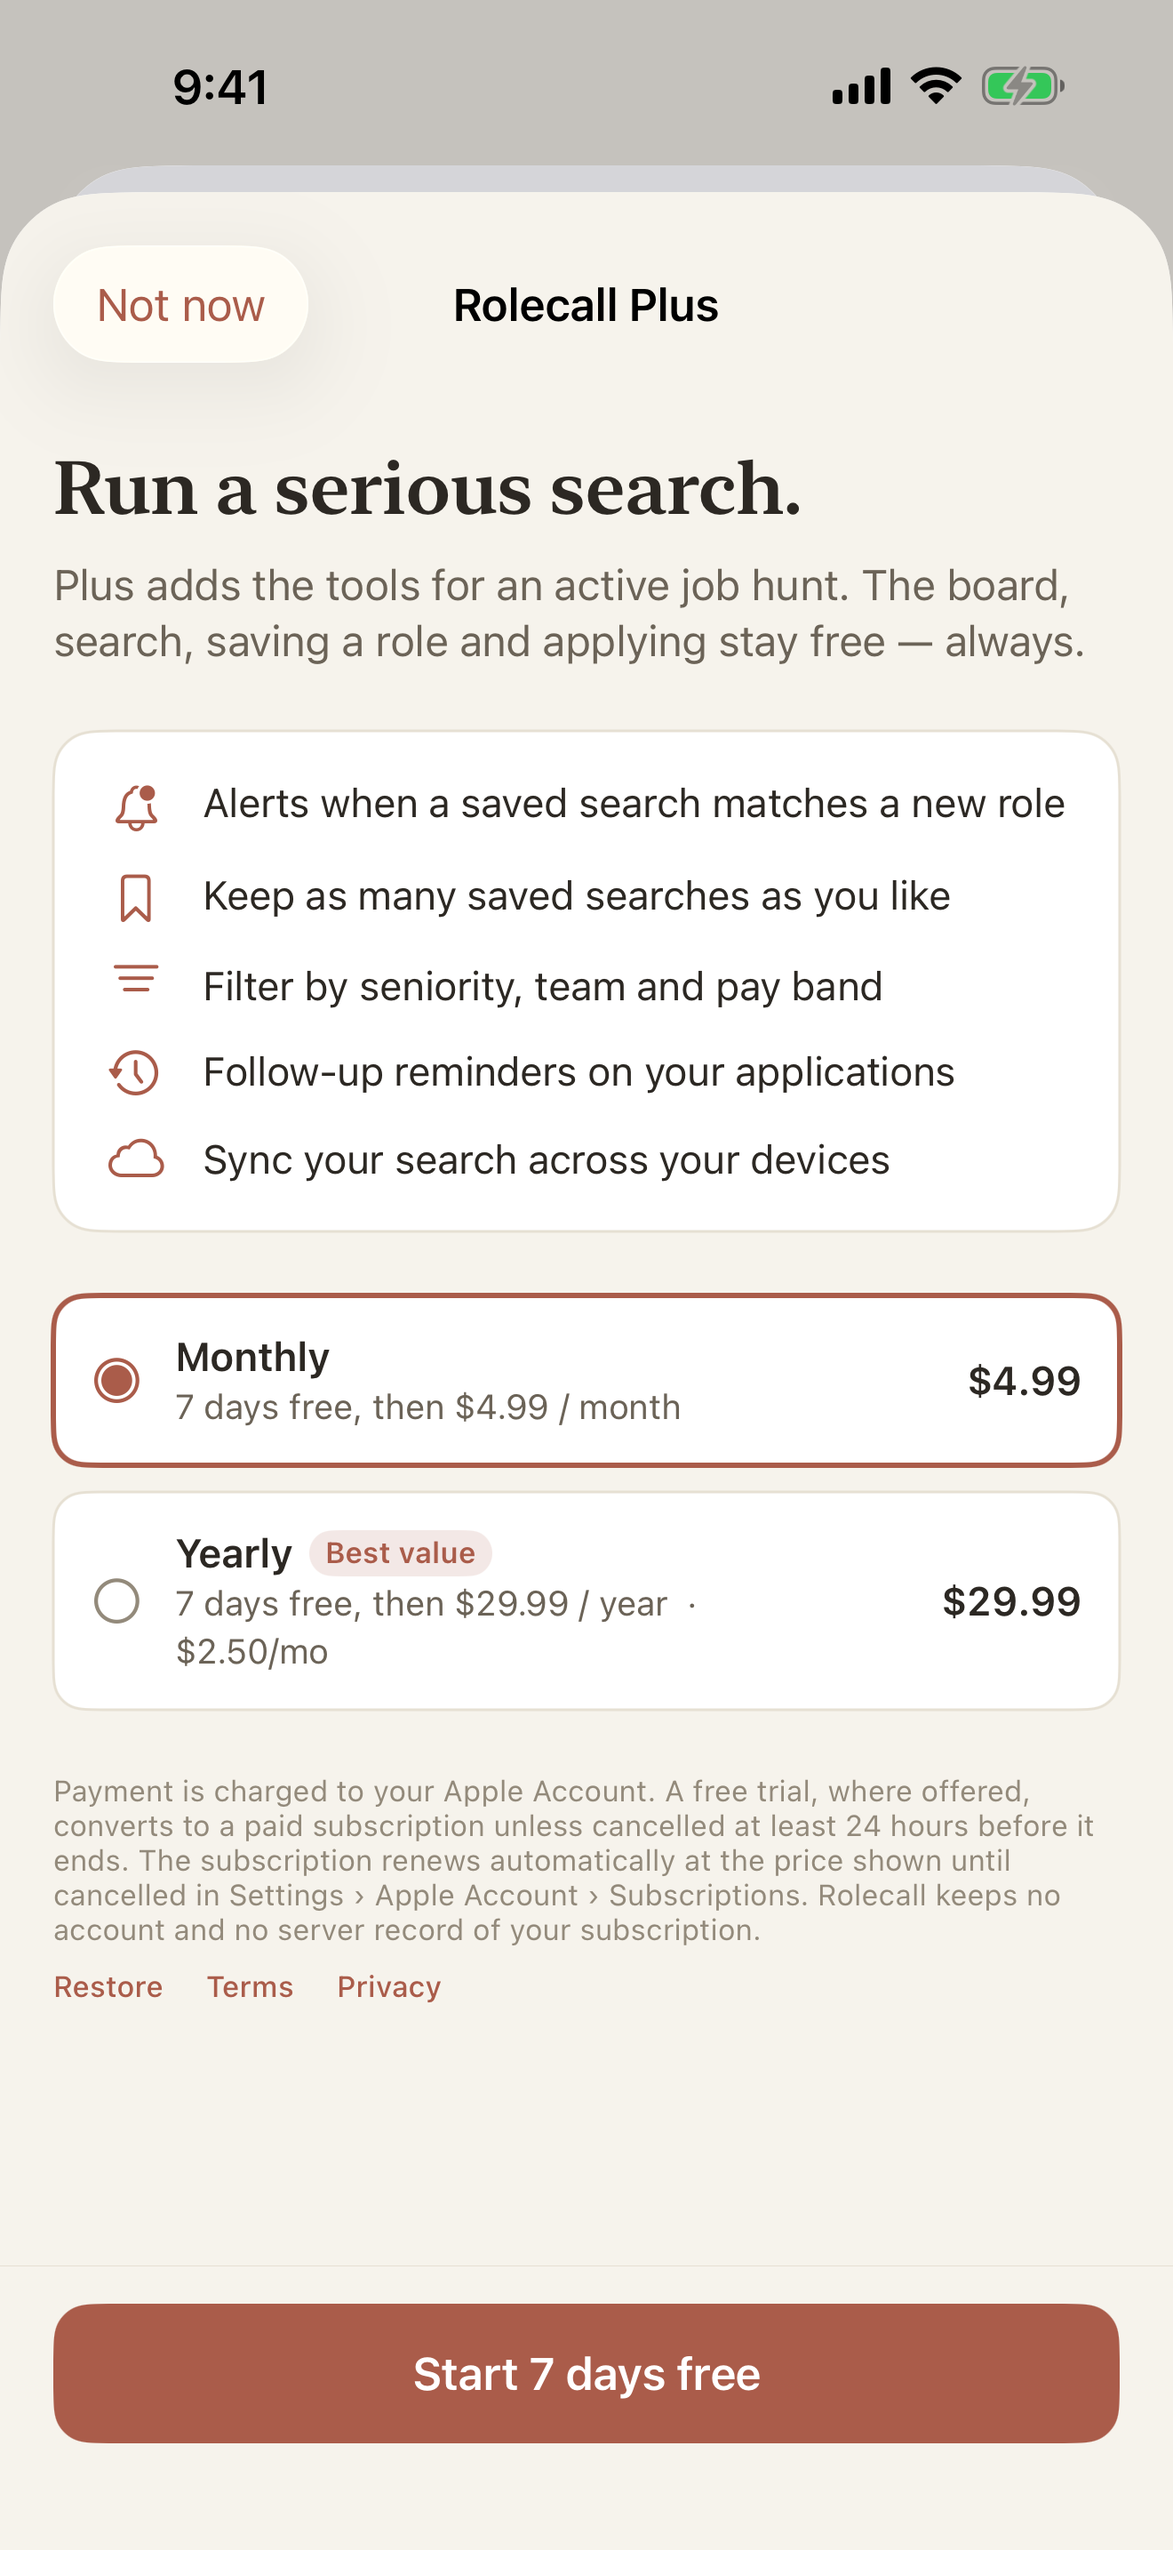
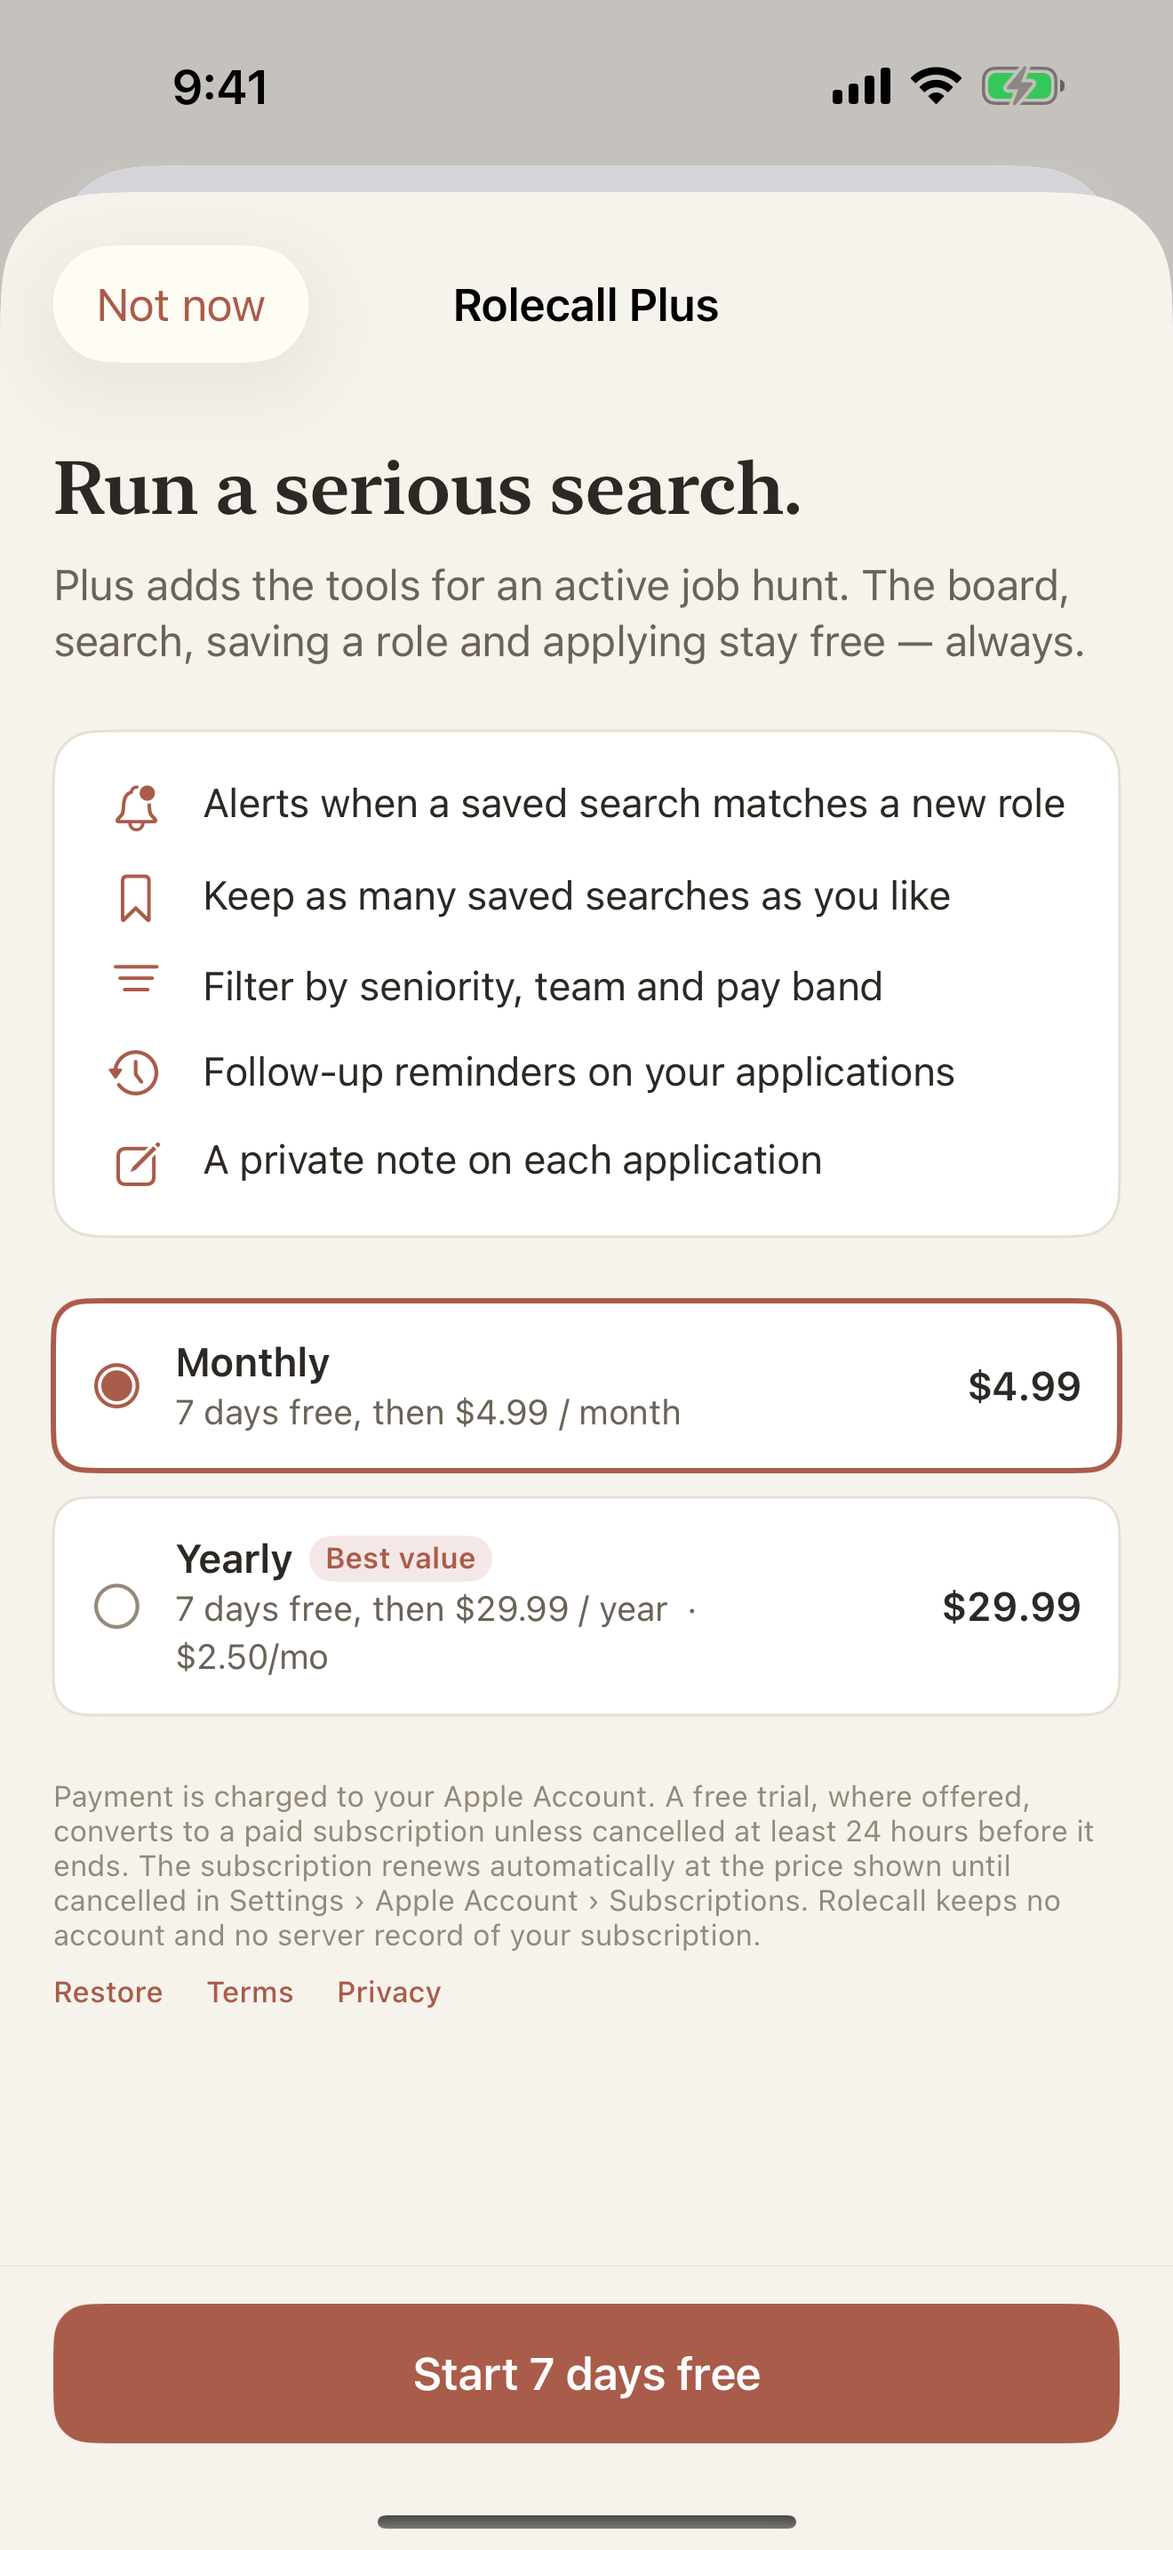
Pull iCloud sync from v1; add real Privacy Policy and Terms pages
iCloud sync was advertised on the paywall and carried a PlusFeature case, but
nothing implemented it — a 2.3.1 / 3.1 risk. Removed it from the paywall
benefit list, the PlusFeature enum, the StoreKit product descriptions, and the
Settings subtitle. The dead PlusFeature.export case (export is free) is gone
too; the 5th benefit is now "private notes", which is genuinely Plus-gated.
iCloud sync returns as a v1.1 feature with a CloudKit container and device
testing.

Auto-renewing subscriptions need functional Terms and Privacy links, which
previously both pointed at the site homepage. Adds:
  - web: /privacy/ and /terms/ pages (build.py render_privacy / render_terms),
    linked from the footer and the sitemap. Privacy reflects the actual
    posture — no account, no analytics, on-device only. Terms cover the
    listings, acceptable use, and the Rolecall Plus auto-renew disclosure with
    a link to Apple's standard EULA.
  - app: PaywallView Terms/Privacy buttons and two new Settings > Privacy links
    now point at rolecalljobs.com/terms/ and /privacy/.

New: SUPPORT_CONTACT = support@rolecalljobs.com (needs a Cloudflare email route).
Release build clean, 0 debug strings in the binary, 53 unit tests pass, paywall
review screenshot refreshed.

Claude-Session: https://claude.ai/code/session_01U8Udz79qhQtr89zPEzs5od

diff --git a/ios/Rolecall/Store/ProGate.swift b/ios/Rolecall/Store/ProGate.swift
@@ -28,8 +28,7 @@ enum PlusFeature: String, CaseIterable, Identifiable {
     case savedSearches
     case advancedFilters
     case reminders
-    case iCloudSync
-    case export
+    case notes
 
     var id: String { rawValue }
 
@@ -40,8 +39,7 @@ enum PlusFeature: String, CaseIterable, Identifiable {
         case .savedSearches:   return "Unlimited saved searches"
         case .advancedFilters: return "Advanced filters"
         case .reminders:       return "Follow-up reminders"
-        case .iCloudSync:      return "iCloud sync"
-        case .export:          return "Export"
+        case .notes:           return "Private notes"
         }
     }
 
@@ -56,10 +54,8 @@ enum PlusFeature: String, CaseIterable, Identifiable {
             return "Filter by seniority, team, and compensation band, not just role family."
         case .reminders:
             return "Set a nudge to follow up on an application at the right time."
-        case .iCloudSync:
-            return "Carry your saved roles and applications across your iPhone and iPad."
-        case .export:
-            return "Save your applications as a file whenever you want a copy."
+        case .notes:
+            return "Keep a private note on each application — where it stands, who you spoke to."
         }
     }
 
@@ -69,8 +65,7 @@ enum PlusFeature: String, CaseIterable, Identifiable {
         case .savedSearches:   return "bookmark"
         case .advancedFilters: return "line.3.horizontal.decrease"
         case .reminders:       return "clock.arrow.circlepath"
-        case .iCloudSync:      return "icloud"
-        case .export:          return "square.and.arrow.up"
+        case .notes:           return "square.and.pencil"
         }
     }
 }

diff --git a/ios/Rolecall/Views/SettingsView.swift b/ios/Rolecall/Views/SettingsView.swift
@@ -60,7 +60,7 @@ struct SettingsView: View {
                                 Image(systemName: "sparkles").foregroundStyle(Theme.Palette.accent)
                                 VStack(alignment: .leading, spacing: 2) {
                                     Text("Rolecall Plus").foregroundStyle(Theme.Palette.ink)
-                                    Text("Alerts, reminders, advanced filters, sync")
+                                    Text("Alerts, reminders, advanced filters, notes")
                                         .font(.footnote).foregroundStyle(.secondary)
                                 }
                                 Spacer()
@@ -134,6 +134,8 @@ struct SettingsView: View {
                     Text("Rolecall keeps everything on this device. No account, no analytics, no trackers. Nothing you do here is sent anywhere.")
                         .font(.footnote)
                         .foregroundStyle(.secondary)
+                    Link("Privacy Policy", destination: URL(string: "https://rolecalljobs.com/privacy/")!)
+                    Link("Terms of Use", destination: URL(string: "https://rolecalljobs.com/terms/")!)
                 }
 
                 Section {

diff --git a/ios/Rolecall/Store/PaywallView.swift b/ios/Rolecall/Store/PaywallView.swift
@@ -22,7 +22,7 @@ struct PaywallView: View {
         ("bookmark", "Keep as many saved searches as you like"),
         ("line.3.horizontal.decrease", "Filter by seniority, team and pay band"),
         ("clock.arrow.circlepath", "Follow-up reminders on your applications"),
-        ("icloud", "Sync your search across your devices"),
+        ("square.and.pencil", "A private note on each application"),
     ]
 
     var body: some View {
@@ -185,8 +185,8 @@ struct PaywallView: View {
                 .fixedSize(horizontal: false, vertical: true)
             HStack(spacing: 16) {
                 Button("Restore") { Task { await store.restore() } }
-                Button("Terms") { openURL(URL(string: "https://rolecalljobs.com/")!) }
-                Button("Privacy") { openURL(URL(string: "https://rolecalljobs.com/")!) }
+                Button("Terms") { openURL(URL(string: "https://rolecalljobs.com/terms/")!) }
+                Button("Privacy") { openURL(URL(string: "https://rolecalljobs.com/privacy/")!) }
             }
             .font(.caption2.weight(.medium))
             .foregroundStyle(Theme.Palette.accent)

diff --git a/web/build.py b/web/build.py
@@ -37,6 +37,7 @@ ADSENSE_SLOT = "0000000000"
 # --------------------------------------------------------------------------
 
 SPONSOR_CONTACT = "sponsors@rolecalljobs.com"
+SUPPORT_CONTACT = "support@rolecalljobs.com"
 APP_STORE_URL = "#app-store-link-tbd"  # replace with the real App Store URL at launch
 
 FAMILY_LABEL = {
@@ -326,6 +327,15 @@ footer a{color:var(--muted);text-decoration:underline}
 footer .links{display:flex;gap:18px;justify-content:center;flex-wrap:wrap;margin-bottom:10px}
 footer .fine{max-width:70ch;margin:0 auto 10px;color:var(--faint);font-size:12.5px}
 
+/* legal pages */
+.legal{max-width:68ch;margin:0 auto;padding:8px 0 24px}
+.legal h1.page{text-align:left}
+.legal h2{font-size:18px;text-align:left;margin:28px 0 8px}
+.legal p,.legal li{color:var(--muted);font-size:15px;line-height:1.65}
+.legal ul{padding-left:22px;margin:8px 0}
+.legal a{color:var(--ink);text-decoration:underline}
+.legal .updated{font-size:13px;color:var(--faint);margin:0 0 22px}
+
 @media (max-width:640px){ .count{margin-left:0;width:100%} }
 """
 
@@ -381,6 +391,8 @@ def shell(*, title, description, canonical, body, base_url, is_job=False, landin
   <div class="links">
     <a href="{base}/">Home</a>
     <a href="{base}/board/">Board</a>
+    <a href="{base}/privacy/">Privacy</a>
+    <a href="{base}/terms/">Terms</a>
     <a href="mailto:{sponsor}?subject=Sponsored%20listing%20on%20Rolecall">Sponsor a role</a>
   </div>
   <div class="fine">Company names identify the employers whose public career feeds Rolecall reads.
@@ -789,7 +801,7 @@ def render_job(role, data, base_url, now):
 
 def render_sitemap(data, base_url, now):
     lastmod = iso_date(data.get("generated_utc", now))
-    urls = [base_url + "/", base_url + "/board/"]
+    urls = [base_url + "/", base_url + "/board/", base_url + "/privacy/", base_url + "/terms/"]
     urls += ["{}/jobs/{}.html".format(base_url, r["_slug"]) for r in data.get("roles", [])]
     entries = "\n".join(
         "  <url><loc>{}</loc><lastmod>{}</lastmod></url>".format(esc(u), lastmod) for u in urls
@@ -817,6 +829,156 @@ def render_404(base_url):
         title="Not found — Rolecall",
         description="That page isn't here.",
         canonical=base_url + "/404.html",
+        body=body,
+        base_url=base_url,
+        is_job=False,
+        landing=False,
+    )
+
+
+LEGAL_UPDATED = "September 8, 2026"
+
+
+def render_privacy(base_url):
+    body = """
+<div class="legal">
+  <h1 class="page">Privacy Policy</h1>
+  <p class="updated">Last updated {updated}</p>
+
+  <p>Rolecall is a job board for product-design roles, published by AvaResearch LLC
+  (&ldquo;we&rdquo;). This policy covers the Rolecall iOS app and this website. The short
+  version: we don&rsquo;t have accounts, we don&rsquo;t run analytics or trackers, and we
+  don&rsquo;t sell data &mdash; because we don&rsquo;t collect it.</p>
+
+  <h2>The app</h2>
+  <ul>
+    <li><strong>No account, no sign-in.</strong> The app never asks for your name, email,
+    or any identifier.</li>
+    <li><strong>Everything stays on your device.</strong> The roles you save, the
+    applications you track, your notes, reminders, saved searches, and settings are stored
+    only on your iPhone. We have no server that can see them.</li>
+    <li><strong>No analytics or tracking SDKs.</strong> The app contains no third-party
+    analytics, advertising, or attribution code. Apple&rsquo;s App Privacy label for
+    Rolecall is &ldquo;Data Not Collected.&rdquo;</li>
+    <li><strong>Network use.</strong> The app downloads one file &mdash; the public job
+    board &mdash; from our hosting provider (Cloudflare). That request includes your IP
+    address and a standard user-agent string, which Cloudflare processes to deliver the
+    file and may log transiently for security and abuse prevention. We do not receive or
+    retain it.</li>
+    <li><strong>Notifications.</strong> If you turn on a digest or a follow-up reminder,
+    the app schedules a local notification on your device. Nothing is sent to us or to a
+    push server.</li>
+    <li><strong>Rolecall Plus.</strong> If you subscribe, the purchase is handled entirely
+    by Apple. We never see your payment details, and there is no account tied to the
+    subscription &mdash; your device checks entitlement directly with the App Store.</li>
+  </ul>
+
+  <h2>This website</h2>
+  <ul>
+    <li>The landing page and the job board set no cookies and run no analytics.</li>
+    <li>Individual job-detail pages reserve one advertising slot. It is currently
+    inactive. If we ever enable it, the ad provider (Google AdSense) may set cookies on
+    those pages only; this policy will be updated before that happens, and the pages carry
+    a notice.</li>
+    <li>Our host, Cloudflare, processes server logs (including IP addresses) to serve the
+    site and protect it from abuse, under
+    <a href="https://www.cloudflare.com/privacypolicy/" rel="nofollow noopener" target="_blank">Cloudflare&rsquo;s privacy policy</a>.</li>
+  </ul>
+
+  <h2>Children</h2>
+  <p>Rolecall is intended for adults in the job market and is not directed to children
+  under 13.</p>
+
+  <h2>Your rights</h2>
+  <p>Because we hold no personal data about you, there is nothing for us to export or
+  delete on request. To remove everything the app stores, use Settings &rsaquo; Clear all
+  my data, or delete the app.</p>
+
+  <h2>Changes</h2>
+  <p>If this policy changes, we&rsquo;ll update the date above and, for material changes,
+  note it on the site.</p>
+
+  <h2>Contact</h2>
+  <p>Questions: <a href="mailto:{contact}">{contact}</a>.</p>
+</div>
+""".format(updated=LEGAL_UPDATED, contact=esc(SUPPORT_CONTACT))
+    return shell(
+        title="Privacy Policy — Rolecall",
+        description="Rolecall keeps no account and collects no personal data. The full privacy policy.",
+        canonical=base_url + "/privacy/",
+        body=body,
+        base_url=base_url,
+        is_job=False,
+        landing=False,
+    )
+
+
+def render_terms(base_url):
+    body = """
+<div class="legal">
+  <h1 class="page">Terms of Use</h1>
+  <p class="updated">Last updated {updated}</p>
+
+  <p>These terms cover your use of the Rolecall iOS app and this website, published by
+  AvaResearch LLC. By using Rolecall you agree to them.</p>
+
+  <h2>What Rolecall is</h2>
+  <p>Rolecall aggregates product-design job postings from companies&rsquo; own public
+  applicant-tracking feeds and links you to each company&rsquo;s official application
+  page. We are not a recruiter or an employer, we are not affiliated with the companies
+  listed, and we are not party to any application or hiring decision. Company names are
+  used only to identify the employer whose public feed a listing comes from.</p>
+
+  <h2>The listings</h2>
+  <p>We work to show only roles that are currently open and to drop them promptly once
+  they close, but we don&rsquo;t guarantee that every listing is accurate, current, or
+  still available. Always confirm details on the company&rsquo;s own page. If you find a
+  dead or wrong link, tell us at <a href="mailto:{contact}">{contact}</a>.</p>
+
+  <h2>Acceptable use</h2>
+  <ul>
+    <li>Rolecall is for personal use in your own job search.</li>
+    <li>Don&rsquo;t scrape, resell, or redistribute the board, and don&rsquo;t try to
+    disrupt or overload the service.</li>
+  </ul>
+
+  <h2>Rolecall Plus</h2>
+  <ul>
+    <li>The job board &mdash; searching, viewing roles, saving them, and marking them
+    applied &mdash; is free and always will be.</li>
+    <li>Rolecall Plus is an optional auto-renewing subscription that unlocks convenience
+    features (saved-search alerts, unlimited saved searches, advanced filters, follow-up
+    reminders, and private notes). Pricing is shown in the app before you buy.</li>
+    <li>Payment is charged to your Apple Account at confirmation. The subscription renews
+    automatically for the same period and price unless you cancel at least 24 hours before
+    the current period ends. A free trial, if offered, converts to a paid subscription on
+    the same terms unless cancelled at least 24 hours before it ends; any unused portion of
+    a trial is forfeited when you buy a subscription.</li>
+    <li>Manage or cancel anytime in Settings &rsaquo; Apple Account &rsaquo; Subscriptions
+    on your device. Purchases, refunds, and billing are handled by Apple under the
+    <a href="https://www.apple.com/legal/internet-services/itunes/dev/stdeula/" rel="nofollow noopener" target="_blank">Apple Media Services Terms</a> (the standard EULA), which
+    also govern your licence to use the app.</li>
+  </ul>
+
+  <h2>No warranty; limitation of liability</h2>
+  <p>Rolecall is provided &ldquo;as is,&rdquo; without warranties of any kind. To the
+  fullest extent permitted by law, AvaResearch LLC is not liable for any indirect,
+  incidental, or consequential damages arising from your use of Rolecall, and our total
+  liability for any claim relating to the service is limited to the amount you paid us for
+  it in the 12 months before the claim.</p>
+
+  <h2>Changes</h2>
+  <p>We may update these terms; we&rsquo;ll change the date above and, for material
+  changes, note it on the site. Continued use after a change means you accept it.</p>
+
+  <h2>Contact</h2>
+  <p><a href="mailto:{contact}">{contact}</a></p>
+</div>
+""".format(updated=LEGAL_UPDATED, contact=esc(SUPPORT_CONTACT))
+    return shell(
+        title="Terms of Use — Rolecall",
+        description="The terms for using Rolecall and Rolecall Plus.",
+        canonical=base_url + "/terms/",
         body=body,
         base_url=base_url,
         is_job=False,
@@ -877,11 +1039,16 @@ def build(base_url: str) -> int:
         shutil.rmtree(DIST)
     (DIST / "board").mkdir(parents=True)
     (DIST / "jobs").mkdir(parents=True)
+    (DIST / "privacy").mkdir(parents=True)
+    (DIST / "terms").mkdir(parents=True)
 
     (DIST / "index.html").write_text(render_landing(data, base_url))
     (DIST / "board" / "index.html").write_text(render_board(data, base_url, now))
     for r in roles:
         (DIST / "jobs" / (r["_slug"] + ".html")).write_text(render_job(r, data, base_url, now))
+
+    (DIST / "privacy" / "index.html").write_text(render_privacy(base_url))
+    (DIST / "terms" / "index.html").write_text(render_terms(base_url))
 
     (DIST / "sitemap.xml").write_text(render_sitemap(data, base_url, now))
     (DIST / "robots.txt").write_text(render_robots(base_url))
@@ -897,6 +1064,7 @@ def build(base_url: str) -> int:
     print("  board   : board/index.html")
     print("  jobs    : jobs/*.html  ({} pages, matches board.json count={})".format(
         len(roles), data.get("count")))
+    print("  legal   : privacy/index.html, terms/index.html")
     print("  extras  : sitemap.xml, robots.txt, _headers, board.json")
     print("  base URL: {}".format(base_url))
     return 0
